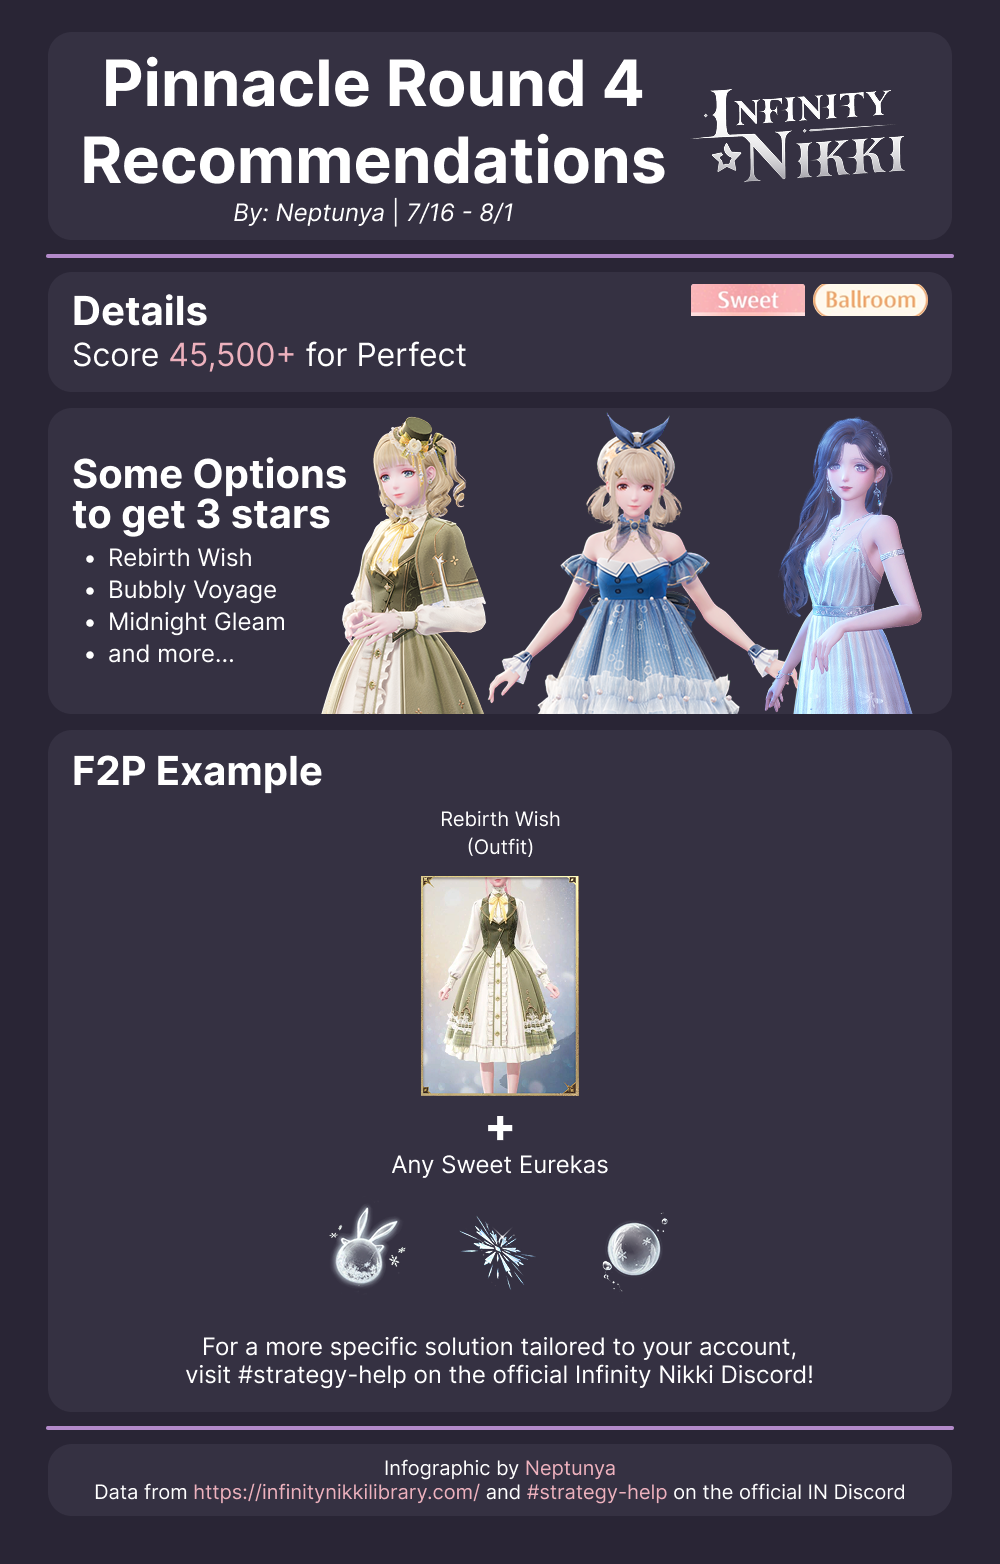
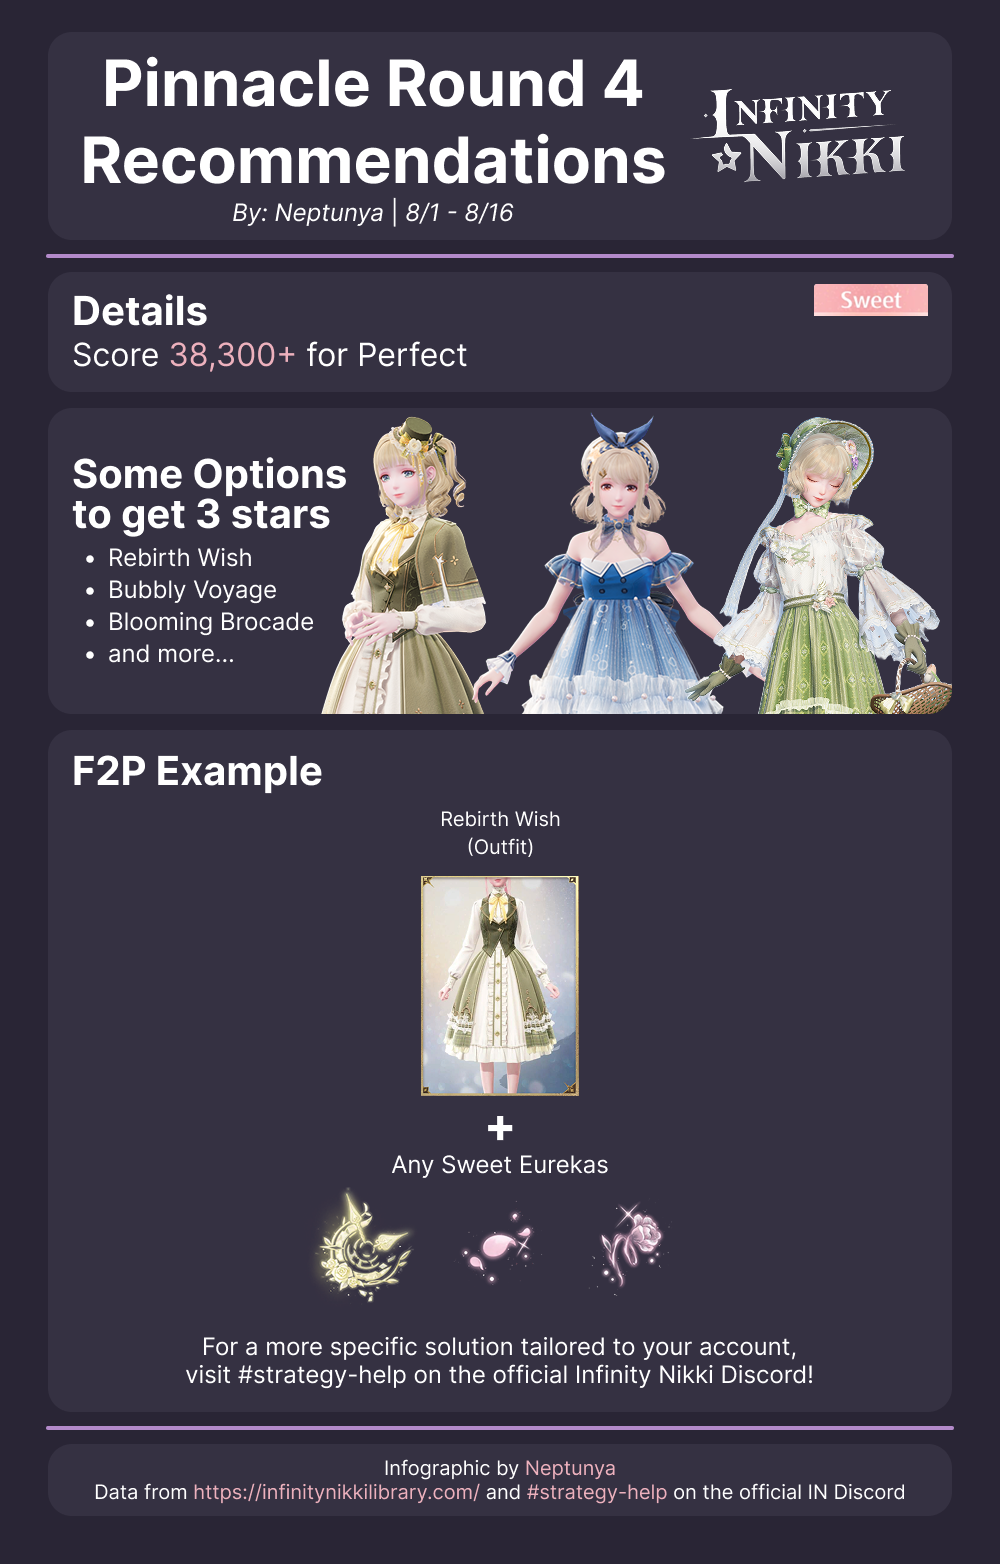
pinnacle contest 1.8a

diff --git a/src/pages/guides/pinnacle-contest-md.md b/src/pages/guides/pinnacle-contest-md.md
@@ -1,8 +1,8 @@
 ---
 layout: ../../layouts/MarkdownGuideLayout.astro
-title: 'Pinnacle Contest Guide'
+title: 'Mira Crown Pinnacle Contest Guide'
 id: 'pinnacle-contest-md'
-lastUpdated: 07/21/2025
+lastUpdated: 08/01/2025
 description: 'Recommendations and F2P examples for how you can clear the current Mira Crown Pinnacle Contest.'
 authors: ['Neptunya']
 image: '/images/guides/pinnacle-contest/pinnacle_contest_banner.jpeg'
